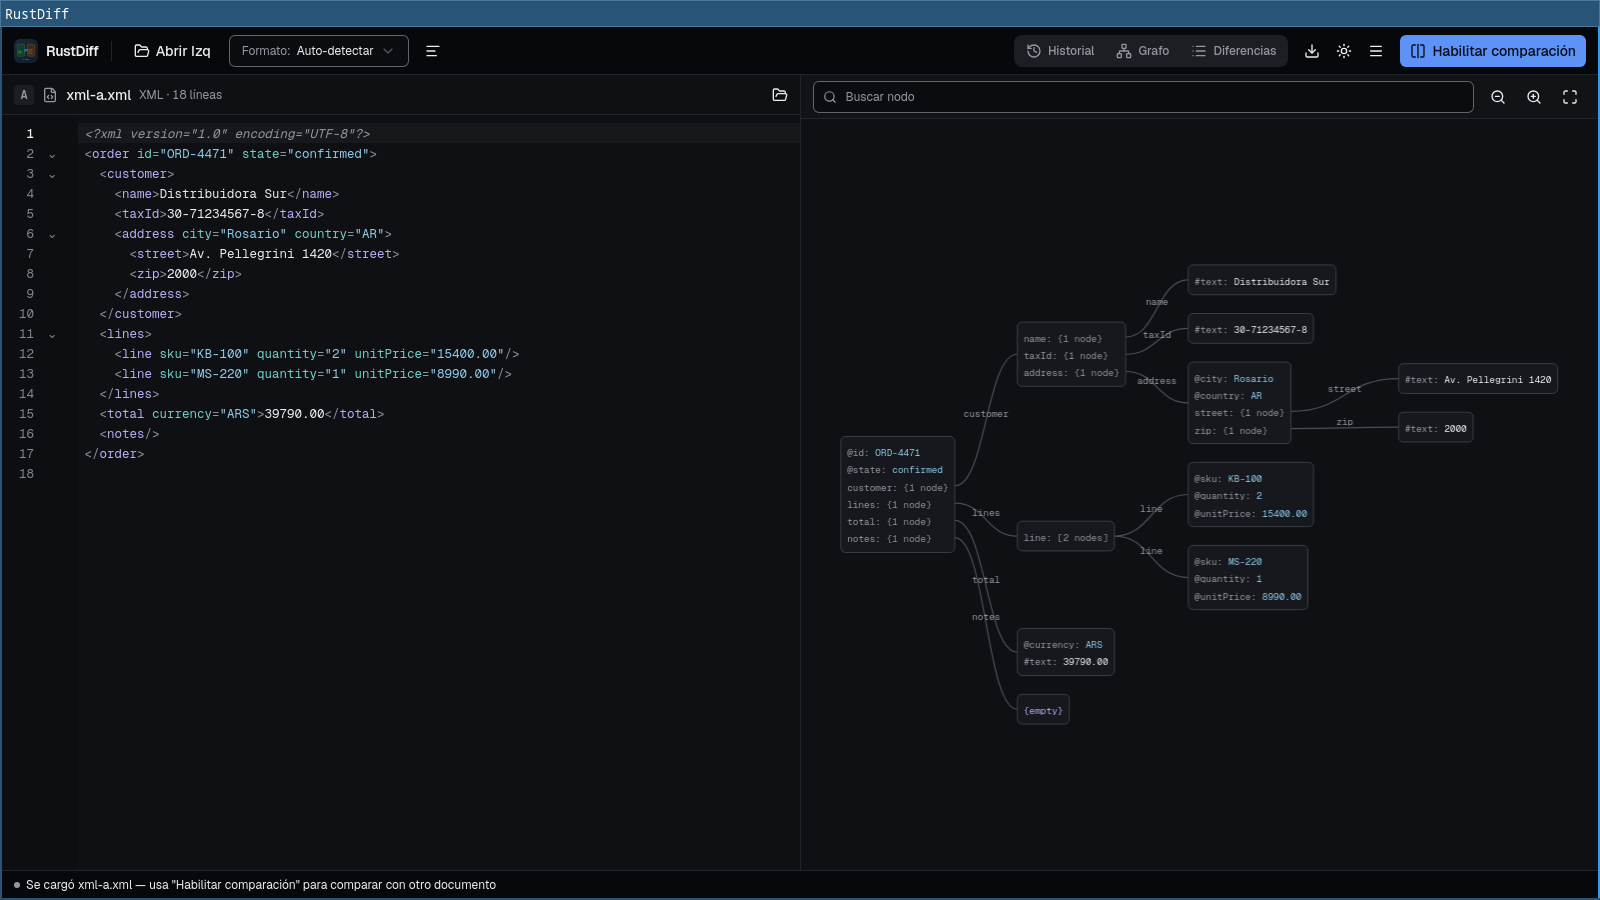
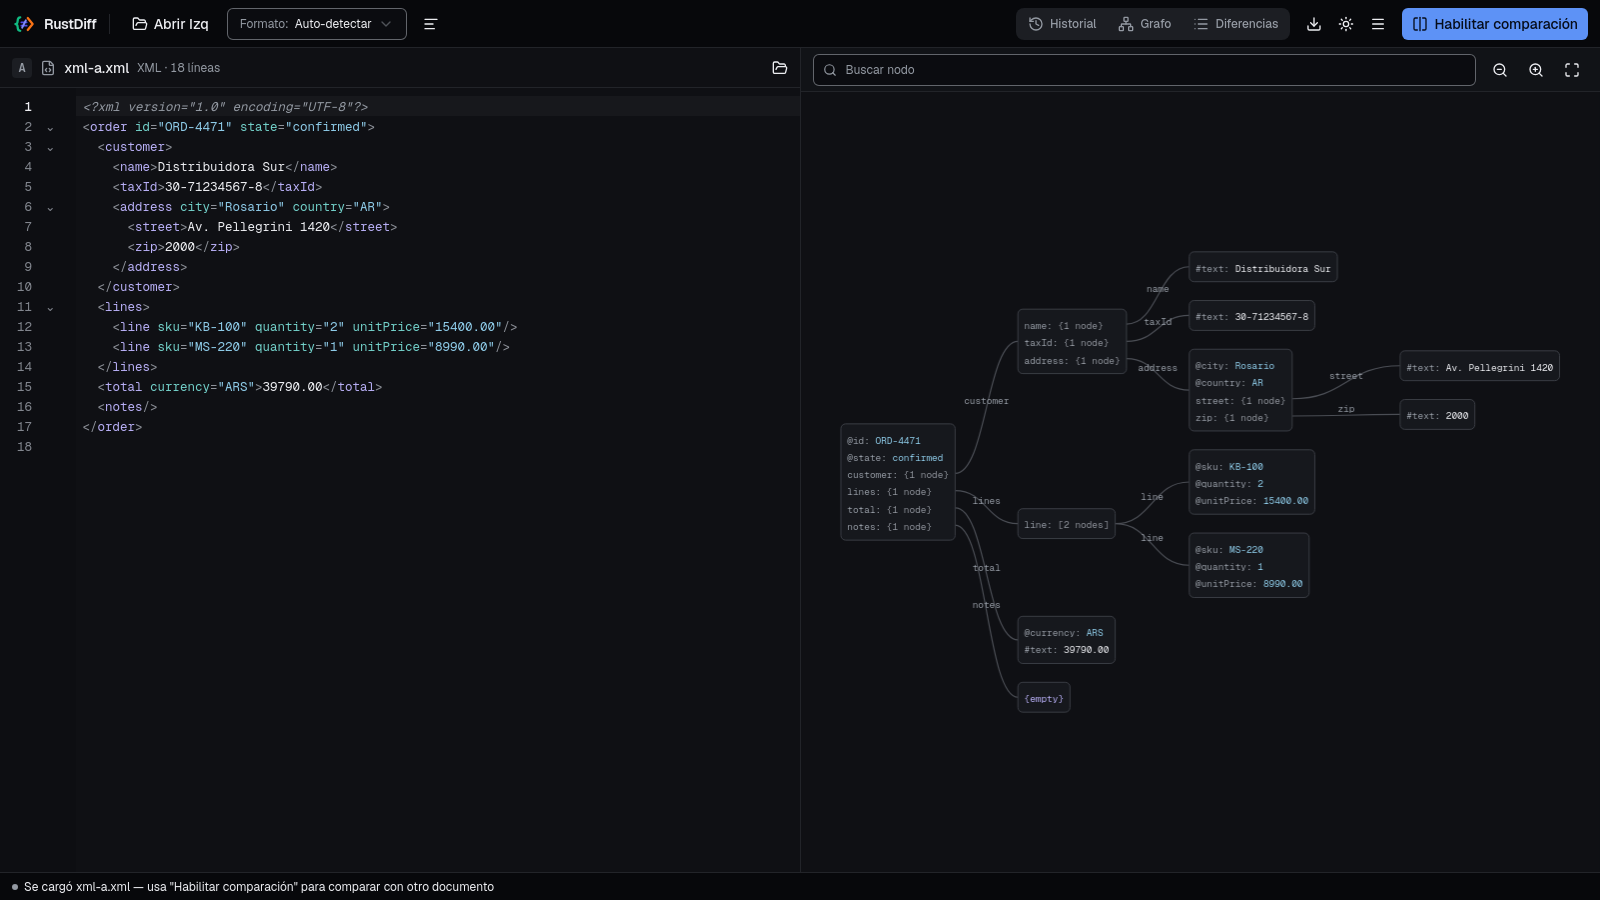
docs(screenshots): recapture without the window frame and refresh the READMEs
The captures carried the compositor's own title bar, which is not the app. They
are now taken on a borderless headless window that fills the canvas, so only the
app shows, at 1600x900 (16:9) with the new icon in the header.

Both READMEs now show the current set (JSON, XML, SQL and the node graph)
instead of pointing at diff-table.png and history.png, which were left over from
the GTK era and are no longer declared in the AppStream metainfo.

diff --git a/README.md b/README.md
@@ -42,9 +42,11 @@ Language: **English** | [Español](README.es.md)
 
 ![Main view - Comparing JSON documents](https://raw.githubusercontent.com/jereok91/rustdiff/main/data/screenshots/main.png)
 
-![Difference table with filters](https://raw.githubusercontent.com/jereok91/rustdiff/main/data/screenshots/diff-table.png)
+![Comparing XML documents node by node, attributes included](https://raw.githubusercontent.com/jereok91/rustdiff/main/data/screenshots/xml.png)
 
-![Session history sidebar](https://raw.githubusercontent.com/jereok91/rustdiff/main/data/screenshots/history.png)
+![Comparing SQL statements after normalisation](https://raw.githubusercontent.com/jereok91/rustdiff/main/data/screenshots/sql.png)
+
+![The node graph of a JSON document](https://raw.githubusercontent.com/jereok91/rustdiff/main/data/screenshots/graph.png)
 
 ## Installation
 

diff --git a/README.es.md b/README.es.md
@@ -42,9 +42,11 @@ Idioma: [English](README.md) | **Español**
 
 ![Vista principal - Comparando documentos JSON](https://raw.githubusercontent.com/jereok91/rustdiff/main/data/screenshots/main.png)
 
-![Tabla de diferencias con filtros](https://raw.githubusercontent.com/jereok91/rustdiff/main/data/screenshots/diff-table.png)
+![Comparando documentos XML nodo por nodo](https://raw.githubusercontent.com/jereok91/rustdiff/main/data/screenshots/xml.png)
 
-![Panel lateral de historial](https://raw.githubusercontent.com/jereok91/rustdiff/main/data/screenshots/history.png)
+![Comparando sentencias SQL tras normalizar](https://raw.githubusercontent.com/jereok91/rustdiff/main/data/screenshots/sql.png)
+
+![Mapa de nodos de un documento JSON](https://raw.githubusercontent.com/jereok91/rustdiff/main/data/screenshots/graph.png)
 
 ## Instalacion
 
